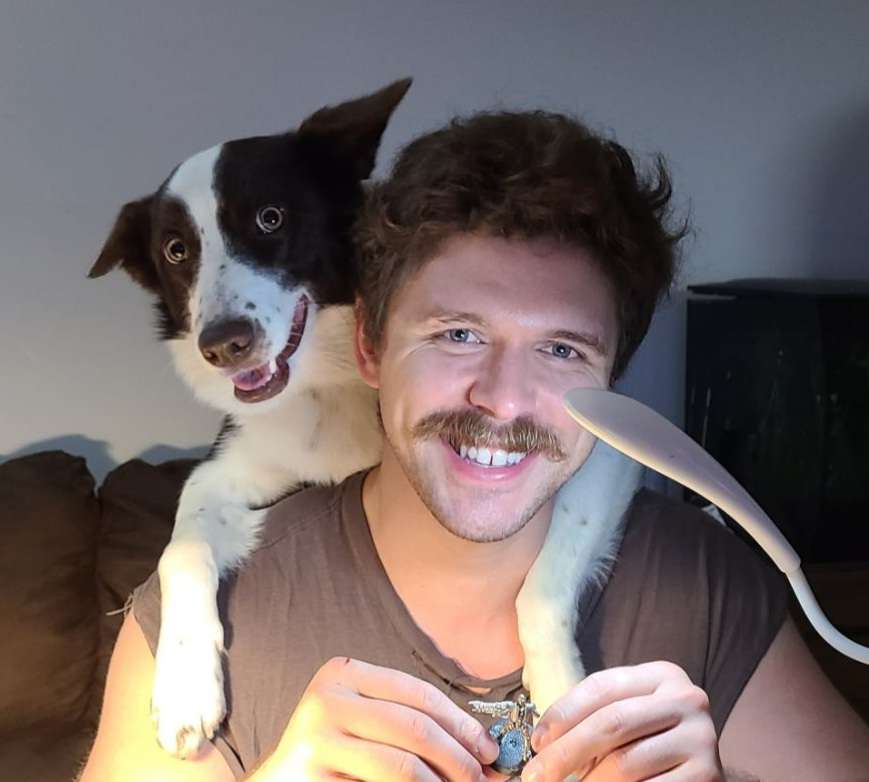
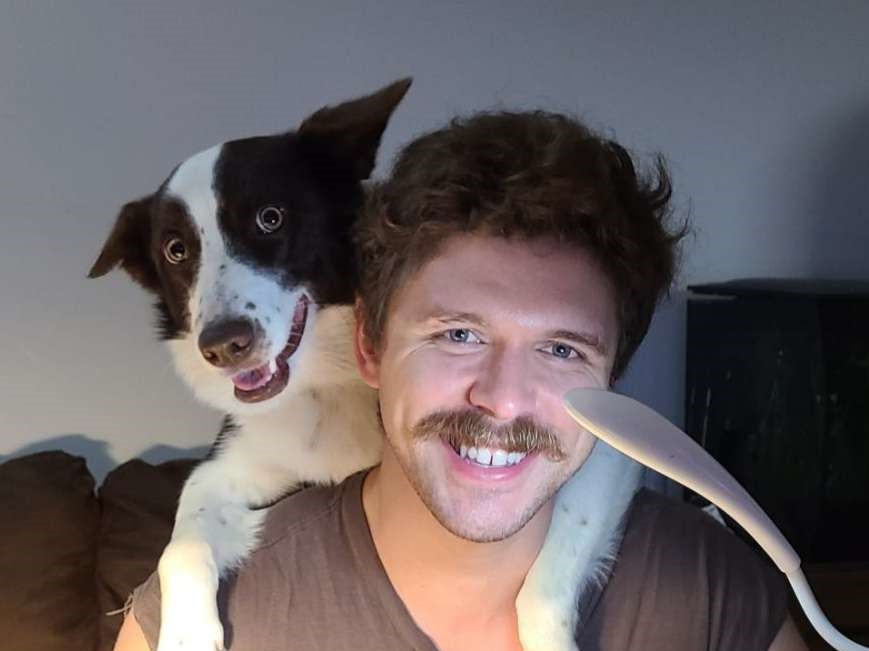
Added the headshots for rest of team

diff --git a/index.html b/index.html
@@ -150,7 +150,7 @@
         <div class="row">
             <div class="col-lg-4 col-md-6 mb-4">
                 <div class="card text-center">
-                    <img src="./images/Survival_of_the_Idiots_082.png" class="card-img-top" alt="Team Member 1">
+                    <img src="./images/Aman_headshot.jpg" class="card-img-top" alt="Team Member 1">
                     <div class="card-body">
                         <h5 class="card-title">Aman Ahlwat</h5>
                         <p class="card-text">Lead Engineer</p>
@@ -160,7 +160,7 @@
 
             <div class="col-lg-4 col-md-6 mb-4">
                 <div class="card text-center">
-                    <img src="./images/Pepe.jpg" class="card-img-top" alt="Team Member 2">
+                    <img src="./images/Ankit_headshot.jpg" class="card-img-top" alt="Team Member 2">
                     <div class="card-body">
                         <h5 class="card-title">Ankit Ahlwat</h5>
                         <p class="card-text">Software Engineer</p>
@@ -190,7 +190,7 @@
 
             <div class="col-lg-4 col-md-6 mb-4">
                 <div class="card text-center">
-                    <img src="./images/Pepe.jpg" class="card-img-top" alt="Team Member 3">
+                    <img src="./images/Germain_headshot.jpg" class="card-img-top" alt="Team Member 3">
                     <div class="card-body">
                         <h5 class="card-title">Germain Santos</h5>
                         <p class="card-text">Business Consultant</p>

diff --git a/css/styles.css b/css/styles.css
@@ -11895,7 +11895,9 @@ html {
 
 .card-img-top {
   height: 300px; /* Adjust the height as needed */
+  width: 300px;
   object-fit: cover; /* Maintain aspect ratio and cover the container */
+  margin: 0 auto; /* Horizontally center the image */
 }
 
 .service_banner {

diff --git a/scss/styles.scss b/scss/styles.scss
@@ -62,7 +62,9 @@ html {
 
 .card-img-top {
   height: 300px; /* Adjust the height as needed */
+  width: 300px;
   object-fit: cover; /* Maintain aspect ratio and cover the container */
+  margin: 0 auto; /* Horizontally center the image */
 }
 
 
